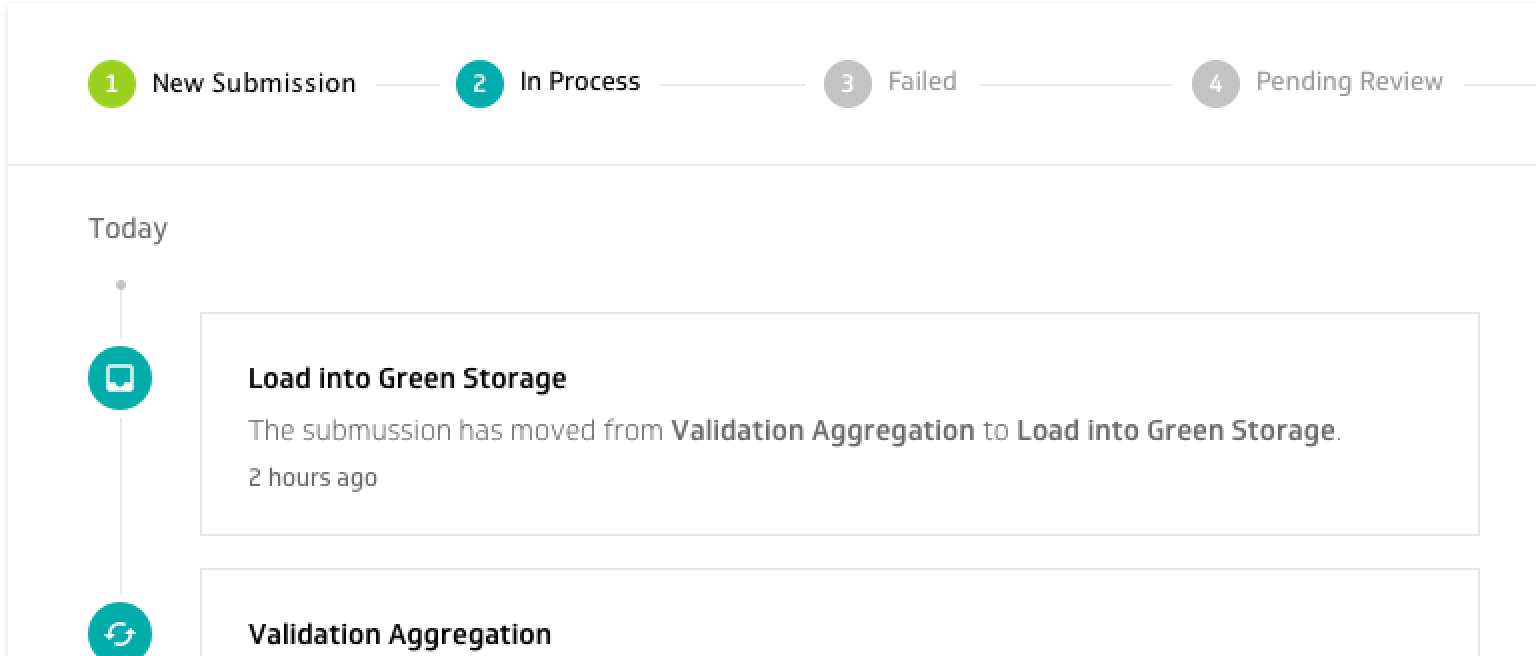
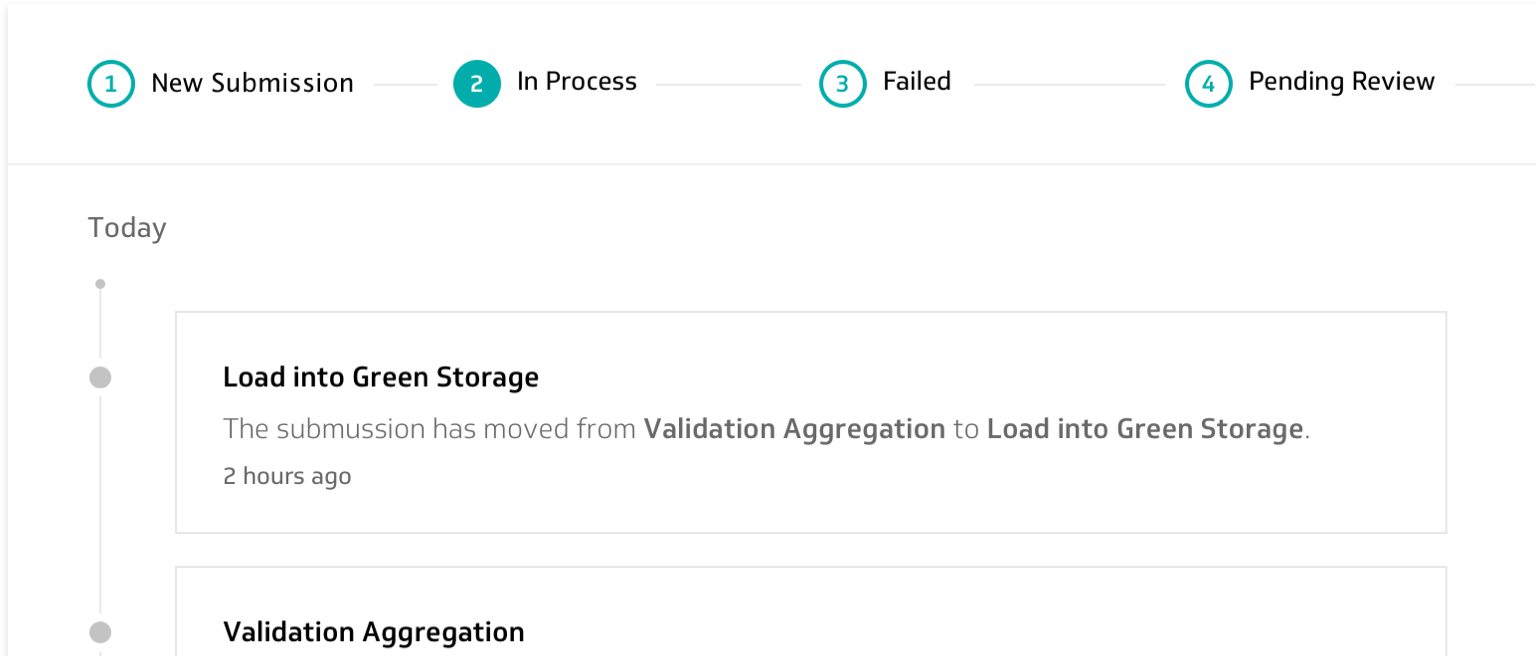
Fix Bug : 215

diff --git a/libs/components/steppers/viz-steppers.component.scss b/libs/components/steppers/viz-steppers.component.scss
@@ -22,18 +22,22 @@
       border-radius: 50%;
       height: 24px;
       width: 24px;
-      align-items: center;
-      justify-content: center;
-      display: flex;
+      // align-items: center;
+      // justify-content: center;
+      // display: flex;
+      text-align: center;
 
       &-finish {
-        background-color: $viz-green;
+        // background-color: $viz-green;
+        border: 2px solid $viz-blue;
+        color: $viz-blue;
       }
       &-progress {
         background-color: $viz-blue;
       }
       &-waiting {
-        background-color: $viz-light-gray;
+        border: 2px solid $viz-extra-light-gray;
+        color: $viz-dark-gray;
       }
     }
     &-label {
